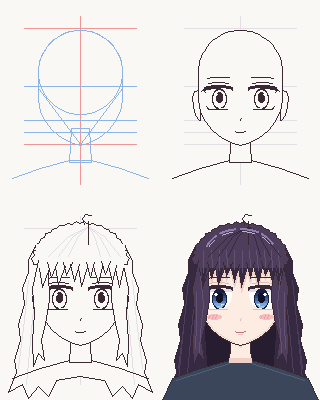
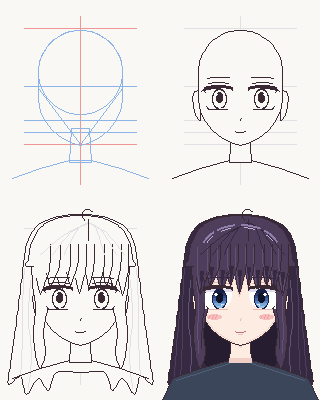
Face study: eyes over bangs, smooth voluminous hair with curved clumps
Claude-Session: https://claude.ai/code/session_0155yoUibrhMAmrpcv8V9b9L

Changed region(s): [[0.0312, 0.51, 1.0, 1.0], [0.2188, 0.93, 0.2812, 0.96], [0.3125, 0.93, 0.3438, 0.96]]

diff --git a/draw_face_study.py b/draw_face_study.py
@@ -63,24 +63,51 @@ EAR_R = mirror(EAR_L)
 NECK = [(35.5, 64), (44.5, 64), (45.5, 81), (34.5, 81)]
 SHOULDERS = [(1, 100), (6, 89), (20, 84), (34.5, 80), (45.5, 80), (60, 84), (74, 89), (79, 100)]
 
-BACK_HAIR = [(18, 22), (14, 30), (14, 36), (11, 44), (12, 52), (9, 62), (10, 70), (7, 80),
-             (8, 86), (4, 96), (11, 92), (14, 99), (19, 93), (24, 98), (28, 90), (40, 88),
-             (52, 90), (56, 98), (61, 93), (66, 99), (69, 92), (76, 96), (72, 86), (73, 80),
-             (70, 70), (71, 62), (68, 52), (69, 44), (66, 36), (66, 30), (62, 22)]
-# bangs clumps: (root_l, root_r, tip_x, tip_y) - part slightly right of centre
-BANGS = [(19, 25, 21, 47), (23, 29, 25.5, 42), (27, 33, 29, 45.5), (31, 36.5, 33, 41),
-         (34.5, 40, 37, 44), (38.5, 44, 40.5, 46.5), (42.5, 47.5, 45, 42), (46, 51.5, 49, 45),
-         (50, 55.5, 52.5, 40.5), (53.5, 58.5, 56, 44.5), (57, 62, 59.5, 47)]
-SIDE_L = [(19, 30), (24, 36), (24.5, 50), (22.5, 62), (20.5, 70), (22, 80), (19, 76.5),
-          (16.5, 83), (16, 70), (17, 56), (16, 44)]
+def smooth(ctrl, n=8, closed=True):
+    """Catmull-Rom spline through control points -> dense smooth outline."""
+    pts = list(ctrl)
+    m = len(pts)
+    out = []
+    rng = range(m) if closed else range(m - 1)
+    for i in rng:
+        p0 = pts[(i - 1) % m] if closed or i > 0 else pts[0]
+        p1 = pts[i]
+        p2 = pts[(i + 1) % m]
+        p3 = pts[(i + 2) % m] if closed or i + 2 < m else pts[-1]
+        for k in range(n):
+            t = k / n
+            t2, t3 = t * t, t * t * t
+            out.append(tuple(0.5 * ((2 * p1[j]) + (-p0[j] + p2[j]) * t
+                                    + (2 * p0[j] - 5 * p1[j] + 4 * p2[j] - p3[j]) * t2
+                                    + (-p0[j] + 3 * p1[j] - 3 * p2[j] + p3[j]) * t3) for j in range(2)))
+    if not closed:
+        out.append(pts[-1])
+    return out
+
+
+# Long back hair: smooth, full volume, ending in a few big soft clumps
+BACK_HAIR = smooth([(40, 7), (53, 8.5), (62, 13), (67, 22), (69, 36), (71, 52), (73, 68), (75, 82),
+                    (76, 92), (70, 88), (67, 97), (61, 89), (56, 95), (52, 86), (40, 86),
+                    (28, 86), (24, 95), (19, 89), (13, 97), (10, 88), (4, 92),
+                    (5, 82), (7, 68), (9, 52), (11, 36), (13, 22), (18, 13), (27, 8.5)])
+# Volume crown: smooth dome a bit wider than the skull
+CROWN = smooth([(40, 7.5), (52, 9), (60, 13.5), (64.5, 21), (66, 29), (65.5, 33), (40, 30), (14.5, 33),
+                (14, 29), (15.5, 21), (20, 13.5), (28, 9)])
+# Bangs: soft curved clumps (root_l, root_r, tip_x, tip_y), part slightly right of centre
+BANGS = [(17, 25, 20, 47), (22, 30, 25, 43), (27, 35, 30.5, 46), (32, 39, 35, 42.5),
+         (36, 43, 39.5, 46.5), (41, 47, 44, 43), (45, 52, 48.5, 46), (49.5, 56, 53, 42.5),
+         (54, 60.5, 56.5, 46), (57.5, 64, 61, 47.5)]
+# Side locks: gentle S-curve that frames the face and flips softly at the end
+SIDE_L = smooth([(16, 28), (22, 31), (24.5, 42), (23.5, 54), (21.5, 66), (22.5, 76), (20, 84),
+                 (17.5, 77), (16.5, 66), (17.5, 54), (16, 42)])
 SIDE_R = mirror(SIDE_L)
 
 
 class Pen:
     """Draws on the hi-res panel using 80x100 grid coordinates."""
 
-    def __init__(self, d, ox, oy):
-        self.d, self.ox, self.oy = d, ox, oy
+    def __init__(self, d, ox, oy, img=None):
+        self.d, self.ox, self.oy, self.img = d, ox, oy, img
 
     def P(self, pts):
         return [(round(self.ox + x * K), round(self.oy + y * K)) for x, y in pts]
@@ -101,9 +128,11 @@ class Pen:
 
 
 def clump(rl, rr, tx, ty):
-    ty -= 3.5          # let the tips rest just above the lashes
-    mid = (24 + ty) / 2
-    return [(rl, 22), (rr, 22), (rr - 0.6, mid), (tx, ty), (rl + 0.6, mid)]
+    """A curved, tapering clump of bangs (bulges slightly toward its tip side)."""
+    lean = (tx - (rl + rr) / 2) * 0.35
+    left = smooth([(rl, 22), (rl + 0.5 + lean, (22 + ty) / 2), (tx, ty)], n=6, closed=False)
+    right = smooth([(tx, ty), (rr - 0.3 + lean, (22 + ty) / 2), (rr, 22)], n=6, closed=False)
+    return left + right[1:]
 
 
 def eye(pen, cx, flip, color):
@@ -163,7 +192,8 @@ def eye(pen, cx, flip, color):
     # double eyelid crease
     for dx in range(-w + 3, w - 2):
         arch = round(2 * (1 - (dx / w) ** 2))
-        d.point((X(dx), Y(-4 - arch)), fill=SKIN_SHADE2 if color else LINE)
+        if pen.img.getpixel((X(dx), Y(-4 - arch))) in (SKIN, SKIN_SHADE, BG):
+            d.point((X(dx), Y(-4 - arch)), fill=SKIN_SHADE2 if color else LINE)
     # lower lash, soft
     for dx in range(-w + 3, w - 3):
         d.point((X(dx), Y(h_bot + 1)), fill=SKIN_SHADE2 if color else LINE)
@@ -198,54 +228,50 @@ def guides(pen, faint):
     pen.line([(12, CHIN), (68, CHIN)], fill=red)
 
 
-def crown_shape():
-    pts = [(16.5, 32)]
-    for k in range(37):
-        a = math.radians(180 + k * 5)
-        r = 1.0 + (0.045 if k % 2 else 0.0)
-        pts.append((40 + 23.5 * r * math.cos(a), 31 + 19.5 * r * math.sin(a)))
-    pts.append((63.5, 32))
-    return pts
-
-
 def hair_front(pen, step):
     color = step == 4
     hf = HAIR if color else BG
-    pen.poly(crown_shape(), fill=hf, outline=LINE)
-    pen.poly([(18, 22), (62, 22), (62.5, 31), (17.5, 31)], fill=hf)
     pen.poly(SIDE_L, fill=hf, outline=LINE)
     pen.poly(SIDE_R, fill=hf, outline=LINE)
+    pen.poly(CROWN, fill=hf, outline=LINE)
+    pen.poly([(16, 21), (64, 21), (65, 30), (15, 30)], fill=hf)
     for c in BANGS:
         pen.poly(clump(*c), fill=hf)
     if color:
-        # shade toward the tips of each clump, then a lighter stripe
+        # each clump: darker core toward the tip, lighter rim on one side = rounded volume
         for rl, rr, tx, ty in BANGS:
-            pen.poly([((rl + rr) / 2 - 1.2, 34), ((rl + rr) / 2 + 1.2, 34), (tx, ty - 3)], fill=HAIR_SHADE)
-            pen.line([((rl + rr) / 2 - 0.5, 25), ((rl + rr) / 2 + (tx - (rl + rr) / 2) * 0.5, (25 + ty) / 2)], fill=HAIR_MID)
+            cx = (rl + rr) / 2
+            y0 = (24 + ty) / 2
+            pen.poly(smooth([(cx - 0.6 + (tx - cx) * 0.4, y0), (cx + (tx - cx) * 0.7, (y0 + ty) / 2 + 1), (tx, ty - 1.2)],
+                            n=5, closed=False) + [(cx + 1 + (tx - cx) * 0.4, y0)], fill=HAIR_SHADE)
+            pen.line(smooth([(rl + 1.4, 23.5), (rl + 1.8 + (tx - cx) * 0.3, (23 + ty) / 2), (tx - 0.4, ty - 3)],
+                            n=5, closed=False), fill=HAIR_MID)
+        # big soft volume shadows where the crown curves away
+        # side locks: shaded inner half, highlight curve following the S
+        pen.line(smooth([(21, 36), (22.5, 48), (21, 62), (20.5, 74)], n=6, closed=False), fill=HAIR_SHADE)
+        pen.line(smooth([(18, 40), (19.2, 52), (18.6, 64), (19.2, 76)], n=6, closed=False), fill=HAIR_MID)
+        pen.line(mirror(smooth([(21, 36), (22.5, 48), (21, 62), (20.5, 74)], n=6, closed=False)), fill=HAIR_SHADE)
+        pen.line(mirror(smooth([(18, 40), (19.2, 52), (18.6, 64), (19.2, 76)], n=6, closed=False)), fill=HAIR_MID)
     for c in BANGS:
         pts = clump(*c)
-        pen.line(pts[2:] + [pts[4]], fill=LINE)
-    # flyaway curl and strand flow from the part
-    pen.line([(42, 12), (41, 9), (42.5, 7), (45.5, 7.5)], fill=LINE)
+        pen.line(pts[len(pts) // 3:], fill=LINE)
+    # strand flow from the part, curving with the dome
     flow = HAIR_SHADE if color else GUIDE_FAINT
-    for x in (24, 29, 34, 50, 55, 60):
-        pen.line([(44, 13), ((44 + x) / 2, 18), (x, 28)], fill=flow)
-    pen.line([(44, 10.5), (44, 22)], fill=LINE)
+    for x in (20, 26, 32, 52, 58, 62):
+        pen.line(smooth([(44, 11), ((44 + x) / 2, 13.5 + abs(x - 44) * 0.15), (x, 27)], n=6, closed=False), fill=flow)
+    pen.line([(44, 9.5), (44, 20)], fill=LINE)
+    pen.line(smooth([(42, 10), (41, 6.5), (43, 4.5), (46, 5.5)], n=5, closed=False), fill=LINE)   # ahoge
     if color:
-        # angel-ring shine, broken into strands
-        for k, (a0, a1) in enumerate(((198, 228), (234, 262), (270, 300), (306, 336))):
-            pen.d.arc(tuple(pen.P([(22, 14), (58, 40)])[0] + pen.P([(22, 14), (58, 40)])[1]),
-                      a0, a1, fill=HAIR_HI, width=2)
-            pen.d.arc(tuple(pen.P([(23, 15.5), (57, 40)])[0] + pen.P([(23, 15.5), (57, 40)])[1]),
-                      a0 + 4, a1 - 6, fill=HAIR_SHINE)
-        # strands on side locks
-        for pts in ([(20, 38), (21.5, 52), (20, 66), (19.5, 76)], [(18, 46), (18, 62), (17.5, 74)]):
-            pen.line(pts, fill=HAIR_MID)
-            pen.line(mirror(pts), fill=HAIR_MID)
+        # angel-ring shine, broken into soft strands that follow the dome
+        box = pen.P([(20, 12), (60, 40)])
+        box2 = pen.P([(21.5, 13.5), (58.5, 40)])
+        for a0, a1 in ((200, 228), (234, 262), (272, 300), (308, 338)):
+            pen.d.arc((box[0][0], box[0][1], box[1][0], box[1][1]), a0, a1, fill=HAIR_HI, width=2)
+            pen.d.arc((box2[0][0], box2[0][1], box2[1][0], box2[1][1]), a0 + 5, a1 - 7, fill=HAIR_SHINE)
 
 
 def panel(img, ox, oy, step):
-    pen = Pen(ImageDraw.Draw(img), ox, oy)
+    pen = Pen(ImageDraw.Draw(img), ox, oy, img)
     if step == 1:
         guides(pen, faint=False)
         pen.poly(FACE, outline=GUIDE_BLUE)
@@ -258,16 +284,18 @@ def panel(img, ox, oy, step):
     # back hair + clothes
     if step >= 3:
         pen.poly(BACK_HAIR, fill=HAIR_SHADE if color else BG, outline=LINE)
+        strands = ([(12, 34), (11, 52), (11, 70), (10, 88)], [(15, 40), (14, 60), (15.5, 78), (14, 94)],
+                   [(9.5, 56), (8, 74), (7, 88)], [(18.5, 60), (19, 76), (20, 92)])
         if color:
-            for pts in ([(14, 40), (12, 60), (9, 84)], [(17, 50), (15, 70), (13, 92)],
-                        [(11.5, 64), (9, 90)]):
-                pen.line(pts, fill=HAIR)
-                pen.line(mirror(pts), fill=HAIR)
-            pen.poly([(22, 60), (58, 60), (56, 88), (24, 88)], fill=HAIR_DEEP)
+            pen.poly(smooth([(22, 56), (58, 56), (55, 86), (25, 86)], n=4), fill=HAIR_DEEP)
+            for k, pts in enumerate(strands):
+                c = HAIR_MID if k == 1 else HAIR
+                pen.line(smooth(pts, n=6, closed=False), fill=c)
+                pen.line(mirror(smooth(pts, n=6, closed=False)), fill=c)
         else:
-            for pts in ([(14, 40), (12, 60), (9, 84)], [(17, 50), (15, 70), (13, 92)]):
-                pen.line(pts, fill=GUIDE_FAINT)
-                pen.line(mirror(pts), fill=GUIDE_FAINT)
+            for pts in strands[:2]:
+                pen.line(smooth(pts, n=6, closed=False), fill=GUIDE_FAINT)
+                pen.line(mirror(smooth(pts, n=6, closed=False)), fill=GUIDE_FAINT)
     if color:
         pen.poly(SHOULDERS, fill=CLOTH, outline=LINE)
         pen.line([(8, 90), (22, 85.5), (34.5, 81.5)], fill=CLOTH_HI)
@@ -288,8 +316,7 @@ def panel(img, ox, oy, step):
     if color:
         for c in BANGS:  # bangs cast a soft shadow on the forehead
             rl, rr, tx, ty = c
-            pen.poly([(rl, 23), (rr, 23), (rr - 0.6, (26 + ty) / 2 + 0.5), (tx, ty - 0.5), (rl + 0.6, (26 + ty) / 2 + 0.5)],
-                     fill=SKIN_SHADE)
+            pen.poly([(x, y + 1.5) for x, y in clump(*c)], fill=SKIN_SHADE)
         # soft cheek shade along the jaw and blush
         pen.line([(23, 60), (27, 64.8), (32, 68.6), (37, 71)], fill=SKIN_SHADE)
         pen.line(mirror([(23, 60), (27, 64.8), (32, 68.6), (37, 71)]), fill=SKIN_SHADE)
@@ -297,9 +324,9 @@ def panel(img, ox, oy, step):
             pen.ellipse((x - 3.5, 57, x + 3.5, 59.5), fill=BLUSH)
             for k in range(3):
                 pen.line([(x - 2 + k * 1.6, 57.6), (x - 2.8 + k * 1.6, 58.8)], fill=(236, 160, 164))
-    features(pen, color)
     if step >= 3:
         hair_front(pen, step)
+    features(pen, color)       # eyes and brows sit on top of the bangs
 
 
 def main():
@@ -320,7 +347,10 @@ def main():
               "3  Hair: crown, bangs, side locks",
               "4  Color + shading"]
     for k, (ox, oy) in enumerate(((0, 0), (PW, 0), (0, PH), (PW, PH))):
-        d.text((ox * SCALE + 14, bar + oy * SCALE + 10), labels[k], fill=(170, 90, 100), font=small)
+        x, y = ox * SCALE + 14, bar + oy * SCALE + 10
+        l, t, r, bt = d.textbbox((x, y), labels[k], font=small)
+        d.rectangle((l - 6, t - 4, r + 6, bt + 4), fill=BG)
+        d.text((x, y), labels[k], fill=(170, 90, 100), font=small)
     d.line((PW * SCALE, bar, PW * SCALE, out.height), fill=(210, 205, 210), width=2)
     d.line((0, bar + PH * SCALE, out.width, bar + PH * SCALE), fill=(210, 205, 210), width=2)
     out.save("face_study.png")
